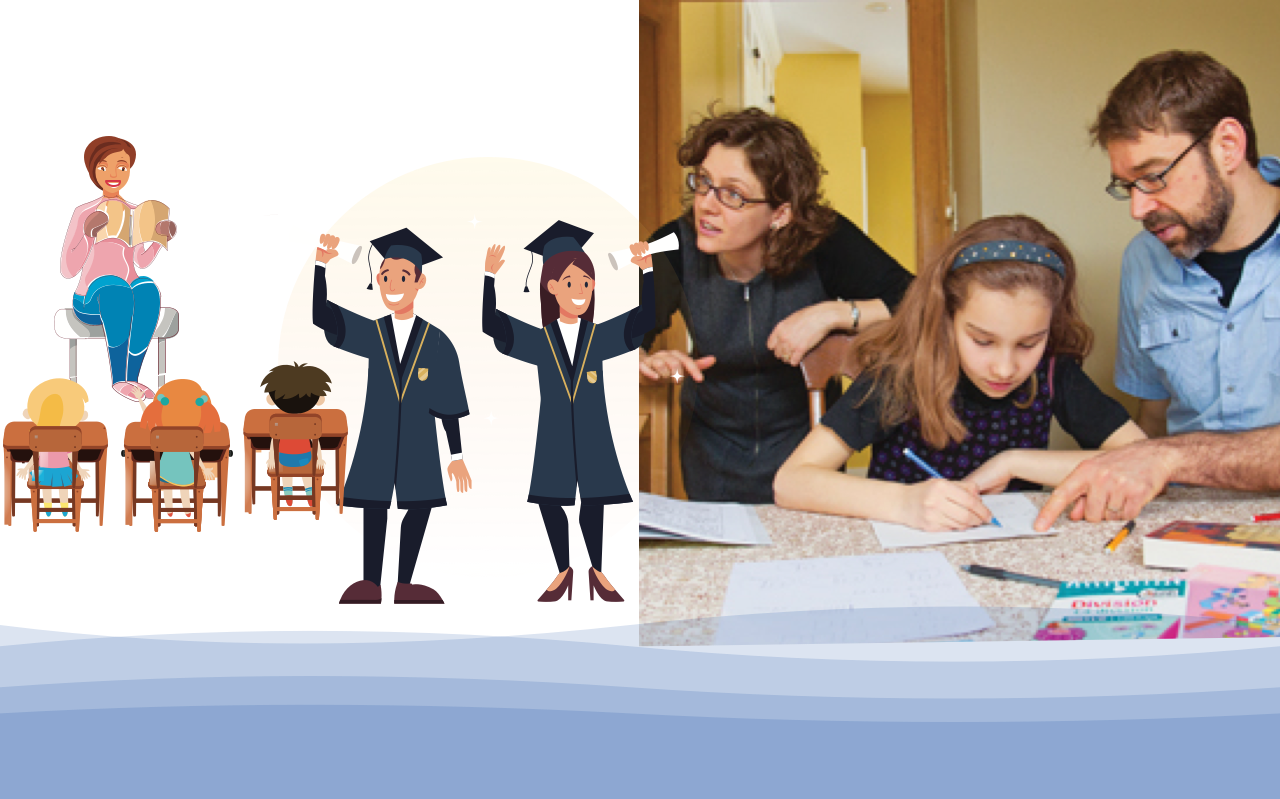
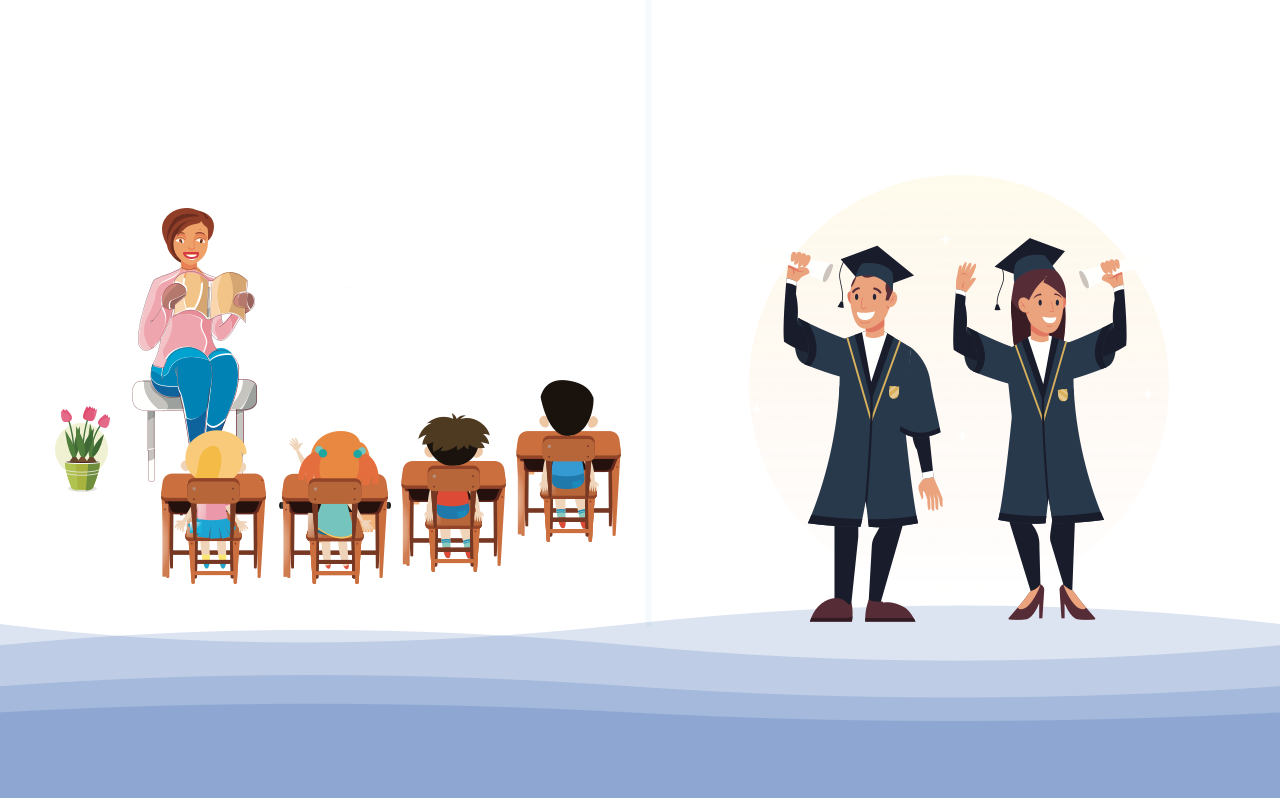
update

diff --git a/assets/css/index.css b/assets/css/index.css
@@ -610,6 +610,11 @@
     width: 100%;
   }
 
+  .__actiontext {
+    font-size: 47px;
+    padding-left: 100px;
+    padding-top: 25px;
+  }
  
 
   .__searchdown {
@@ -618,7 +623,7 @@
 
   .__searchtop {
     margin-top: 1px;
-    padding: 33% 190px 50px;
+    padding: 16% 160px 50px;
   }
 
   .__cardtop {
@@ -660,6 +665,12 @@
 
 @media screen and (max-width: 800px){
   /*curraculum*/
+
+  .__actiontext {
+    font-size: 35px;
+    padding-left: 79px;
+    padding-top: 20px;
+  }
   .__item img {
     height: 439px !important;
   }
@@ -679,12 +690,7 @@
     text-align: center;
   }
 
- 
-
-  .__searchtop {
-    margin-top: 1px;
-    padding: 38% 90px 50px;
-  }
+  
 
   
 
@@ -736,6 +742,19 @@
 
 @media screen and (max-width: 767px){
 
+  .__actiontext {
+    font-size: 35px;
+    padding-left: 134px;
+    padding-top: 20px;
+  }
+
+ 
+
+  .__searchtop {
+    margin-top: 1px;
+    padding: 1% 89px 47px;
+  }
+
   .__logoimg {
     width: 100px;
   }
@@ -757,7 +776,7 @@
   }
 
   .__searchtop {
-    padding: 23% 90px 50px;
+    padding: 0% 90px 50px;
   }
   .__cardtop {
     padding: 30px 221px;
@@ -793,6 +812,12 @@
   @media screen and (max-width: 560px){
 
   /*curraculume*/
+
+  .__actiontext {
+    font-size: 36px;
+    padding-left: 0;
+    padding-top: 0;
+  }
 
   .__logoimg {
     width: 51px;

diff --git a/assets/css/main.css b/assets/css/main.css
@@ -448,6 +448,16 @@ a:focus, a:hover {
 ==================================================================*/
 
 /*medilag*/
+
+.__actiontext{
+  font-family: Lato-Black;
+  font-size: 60px; 
+  font-weight: 900;
+  line-height: 0.88;
+  color: #676767;
+  padding-left: 102px;
+  padding-top: 45px;
+}
 .__curnavbar{
     /*position: absolute;*/
   /*top: 10px;*/
@@ -460,7 +470,7 @@ a:focus, a:hover {
 
 .bg-ybt{
   /*background:linear-gradient(100deg, rgba(34, 34, 34, 0.21) 50%, rgba(34, 34, 34, 0.21) 50%), url(../img/YBT.jpg);*/
-  background-image: url(../img/banner.png);
+  background-image: url(../img/banners.png);
     background-size: cover;
     background-position: center;
     background-repeat: no-repeat;
@@ -657,7 +667,7 @@ ul.nav li.dropdown:hover > ul.dropdown-menu {
 .__searchtop{
   /*background-image: linear-gradient(to bottom, rgba(74, 74, 74, 0.03), #021532);
   margin-top: -100px;*/
-  padding: 35% 0 6%;
+  padding: 17% 0 6%;
 }
 
 .__searchdown{

diff --git a/index.html b/index.html
@@ -84,6 +84,15 @@
 
 
         <div class="bg-ybt">
+
+        	<div class="container">
+        		<div class="row">
+        			<div class="col-lg-1 col-md-1 col-sm-1"></div>
+        			<div class="col-lg-11 col-md-11 col-sm-11">
+        				<h1 class="__actiontext"">Your<br>Better<br>Tomorrow</h1>
+        			</div>
+        		</div>
+        	</div>
         	<div class="__searchtop">
 	        	<div class="__searchdown" >
 	        		<div class="row">
